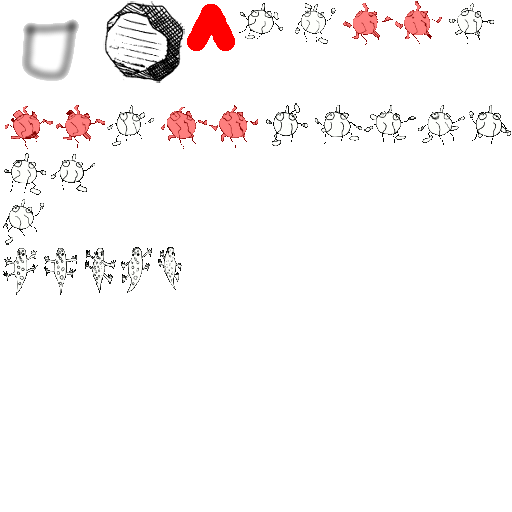
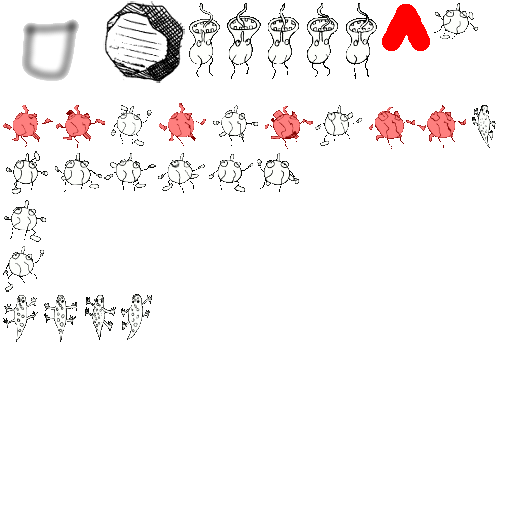
- missing files and new sounds from kids

Changed region(s): [[0.0, 0.1875, 0.3438, 0.6562], [0.2188, 0.1875, 1.0, 0.375], [0.3438, 0.0, 0.9688, 0.125]]

diff --git a/main.py b/main.py
@@ -80,11 +80,14 @@ class SneakGame(Widget):  # pylint: disable=too-many-instance-attributes
         self.load_animation('rat', 19, 25, "rat-%d", 9, {0:0, 1:1, 2:2, 3:3,  # noqa: E231
                                                          4:4, 5:3, 6:2, 7:1, 8:0},  # noqa: E231
                                                          frame_duration=40)
+        self.load_animation('shout', 37, 78, "shout-%d", 9, {0:0, 1:1, 2:2, 3:3,  # noqa: E231
+                                                         4:4, 5:3, 6:2, 7:1, 8:0},  # noqa: E231
+                                                         frame_duration=30)
         self.load_animation('rat-still', 19, 25, "rat-%s", 1, {0: 2}, frame_duration=1000)
 
     def load_animation(self, animname, w, h, pattern, nframes, framemap=None, frame_duration=50):
         if not framemap:
-            framemap = {x:x for x in range(nframes)}
+            framemap = {x: x for x in range(nframes)}
         mm = self.gameworld.model_manager
         for x in range(nframes):
             mm.load_textured_rectangle('vertex_format_4f', w, h, pattern % framemap[x], pattern % x)
@@ -129,16 +132,19 @@ class SneakGame(Widget):  # pylint: disable=too-many-instance-attributes
         ent = self.gameworld.entities[self.person_eid]
 
         old_anim = self.person_anim
-        if self.gameworld.state == 'fail' or currtime < self.grace_timestamp:
+        if ent.fear.repulsion >= defs.shout_repulsion:
+            self.person_anim = 'shout'
+        elif self.gameworld.state == 'fail' or currtime < self.grace_timestamp:
             self.person_anim = 'grace'
         else:
             speed = ent.cymunk_physics.body.speed
-            if  speed > 80:
+            if speed > 80:
                 self.person_anim = 'walk'
             else:
                 self.person_anim = None
 
         if self.person_anim is None:
+            ent.animation.animation = 'walk'
             ent.animation.current_frame_index = 0
         elif self.person_anim != old_anim:
             ent.animation.animation = self.person_anim
